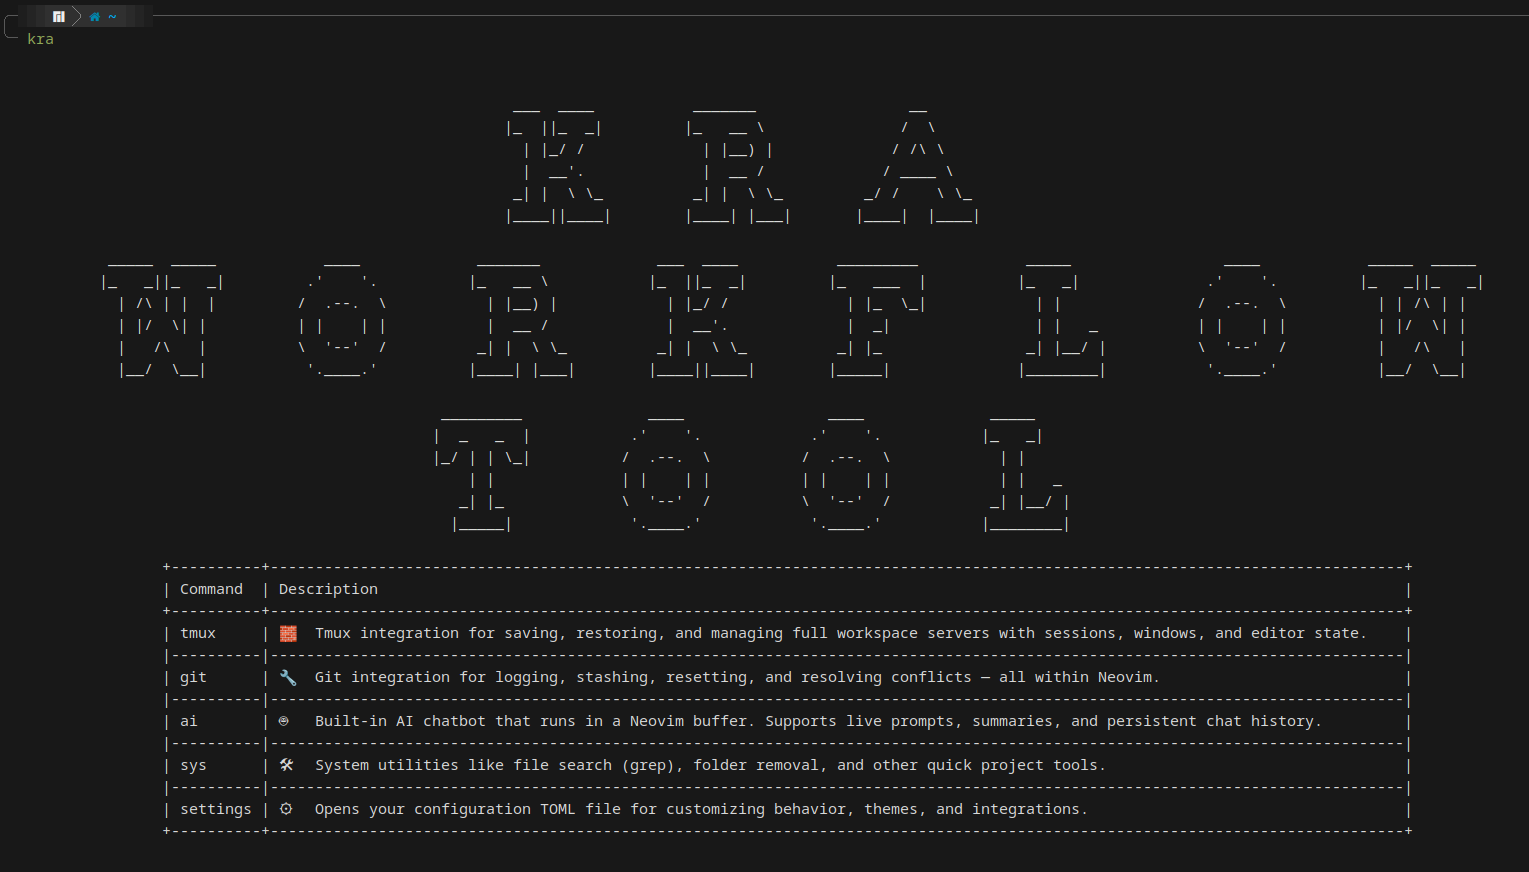
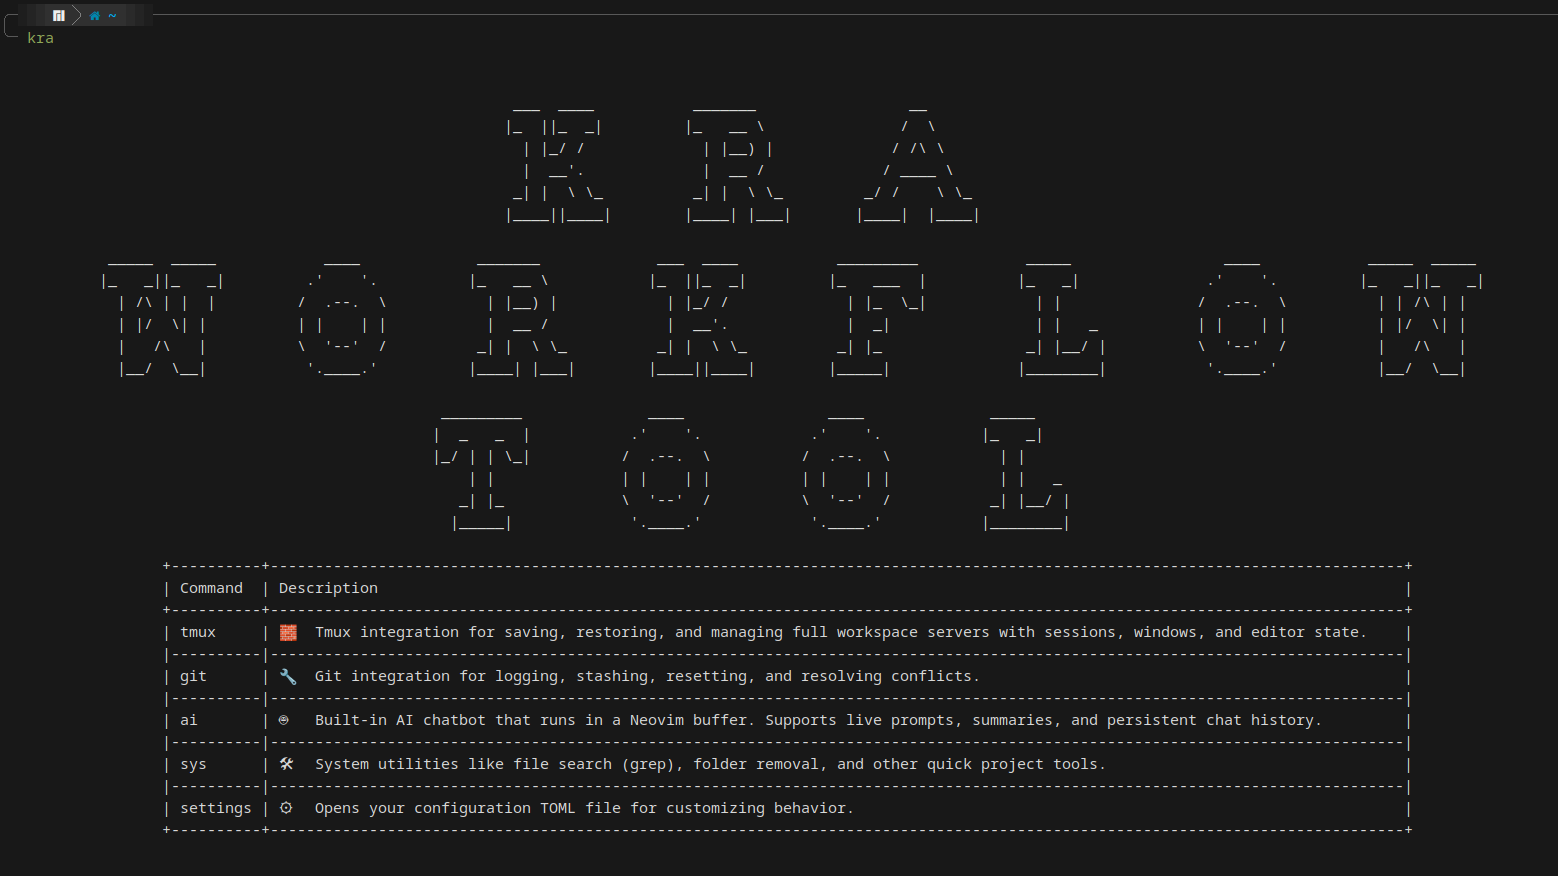
Ascii
small change to workflow ascii and screenshot

diff --git a/src/data/workflow-ascii.ts b/src/data/workflow-ascii.ts
@@ -26,12 +26,12 @@ export const workflowAscii = `
                   +----------+------------------------------------------------------------------------------------------------------------------------------+
                   | tmux     | 🧱  Tmux integration for saving, restoring, and managing full workspace servers with sessions, windows, and editor state.    |
                   |----------|------------------------------------------------------------------------------------------------------------------------------|
-                  | git      | 🔧  Git integration for logging, stashing, resetting, and resolving conflicts — all within Neovim.                           |
+                  | git      | 🔧  Git integration for logging, stashing, resetting, and resolving conflicts.                                               |
                   |----------|------------------------------------------------------------------------------------------------------------------------------|
                   | ai       | 🤖  Built-in AI chatbot that runs in a Neovim buffer. Supports live prompts, summaries, and persistent chat history.         |
                   |----------|------------------------------------------------------------------------------------------------------------------------------|
                   | sys      | 🛠  System utilities like file search (grep), folder removal, and other quick project tools.                                 |
                   |----------|------------------------------------------------------------------------------------------------------------------------------|
-                  | settings | ⚙  Opens your configuration TOML file for customizing behavior, themes, and integrations.                                   |
+                  | settings | ⚙  Opens your configuration TOML file for customizing behavior.                                                             |
                   +----------+------------------------------------------------------------------------------------------------------------------------------+
 `;
